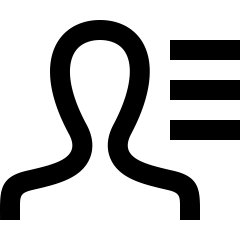
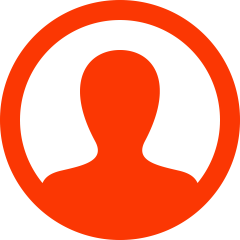
select cv

diff --git a/assets/js/selectCv.js b/assets/js/selectCv.js
@@ -1,0 +1,234 @@
+document.addEventListener("DOMContentLoaded", function () {
+
+
+    //CV SELECT
+    const selectCv = document.getElementById("selectCv");
+    const insertCv = document.getElementById("myCv");
+
+    selectCv.addEventListener("change", function () {
+
+        const cv0 = `<h1 class="text-dark text-center"> Choisissez un CV </h1>`
+
+        //CV 1
+        const cv1 = `<!DOCTYPE html>
+            <html lang="fr">
+            <head>
+                <meta charset="UTF-8">
+                <meta name="viewport" content="width=device-width, initial-scale=1.0">
+                <title>Document</title>
+            </head>
+            <body>
+                
+
+                
+                <div class="h-100 w-100 p-3">
+                
+                    <table width="100%">
+                        <tr>
+                
+                            <!-- ABOUT-->
+                            <td width="65%" valign="top">
+                
+                                <h1 id="cv-name">Nom Prenom</h1>
+                                <p id="cv-about">Lorem ipsum dolor, sit amet consectetur adipisicing elit. Vero sunt quasi non, sint, dolores nobis eveniet laboriosam temporibus aperiam aut reiciendis tempora culpa, distinctio cupiditate. Non, vel. Facilis, consequatur corrupti.</p>
+                
+                            </td>
+                
+                            <!-- CONTACT -->
+                            <td width="30%" style="padding-left: 5rem;">
+                
+                                <table width="100%">
+                                    <tr>
+                                        <td>
+                                            <ul style="list-style: none;">
+                                                <img id="avatarCv" style="width: 7rem; height: 7rem; border-radius: 50%;">
+                                                <li style="padding-top: 1rem;" id="cv-email"></li>
+                                                <li style="padding-top: 0.5rem;" id="cv-tel"></li>
+                                                <li style="padding-top: 0.5rem;" id="cv-birth"></li>
+                                                <li style="padding-top: 0.5rem;" id="cv-city"></li>
+                                            </ul>
+                                        </td>
+                                    </tr>
+                
+                                </table>
+                            </td>
+                        </tr>
+                    </table>
+                
+                    <hr>
+                
+                
+                
+                
+                
+                
+                    <table width="75%">
+                        <tr>
+                            <!-- EXP -->
+                            <td valign="top">
+                
+                                <h2>Expériences</h2>
+                                <div id="expCv">
+                
+                                </div>
+                
+                                <hr>
+                
+                                <!-- SCHOOL -->
+                                <h2>Éducation</h2>
+                                <div id="schoolCv">
+                
+                                </div>
+                
+                            </td>
+                        </tr>
+                    </table>
+                
+                
+                
+                    <hr>
+                
+                
+                
+                
+                    <table width="100%">
+                        <tr>
+                
+                            <!-- SKILLS-->
+                            <td width="50%" valign="top">
+                                <table width="100%">
+                                    <tr>
+                                        <td>
+                                            <h4>Competences</h4>
+                                            <div id="skillsCv" style="list-style: none;">
+                
+                                            </div>
+                                        </td>
+                                    </tr>
+                
+                                </table>
+                            </td>
+                
+                            <!-- LNG -->
+                            <td width="50%">
+                
+                                <table width="100%">
+                                    <tr>
+                                        <td>
+                                            <h4>Langues</h4>
+                                            <div id="cv-lng" style="list-style: none;">
+                
+                                            </div>
+                                        </td>
+                                    </tr>
+                
+                                </table>
+                            </td>
+                        </tr>
+                    </table>
+                </div>
+
+
+            </body>
+            </html>`
+
+        //CV 2
+        const cv2 = `<div id="cv" class="p-2 rounded-4 overflow-y-auto h-100">
+    <div class="container text-center">
+
+        <table width="100%" cellspacing="0" cellpadding="0" style="page-break-inside: avoid;">
+            <tr>
+
+                <!-- ABOUT -->
+                <td width="75%" style="text-align: center;">
+                    <div class="">
+                        <img id="cv-avatar" class="" src="/assets/img/avatar.jpg" alt="Profile photo" style="width: 5rem; height: 5rem; border-radius: 50%; object-fit: cover; display: block; margin: 0 auto 0.5rem auto;">
+                        <h1 id="cv-name" style="margin: 0; font-weight: bold;">Prénom&nbsp;Nom</h1>
+                    </div>
+
+                    <p id="cv-about" style="text-align: center; padding: 0 1rem;">
+                        À propos de moi : courte présentation professionnelle mettant en avant le profil,
+                        les compétences principales et les objectifs.
+                    </p>
+                </td>
+
+                <!-- CONTACT -->
+                <td width="25%" valign="" class="mt-5">
+                    <div class="contact-item">
+                        <span id="cv-email">Email</span>
+                    </div>
+
+                    <div class="contact-item">
+                        <span id="cv-tel">Tel</span>
+                    </div>
+
+                    <div class="contact-item">
+                        <span id="cv-birth">Date de naissance</span>
+                    </div>
+
+                    <div class="contact-item">
+                        <span id="cv-city">Adresse</span>
+                    </div>
+                </td>
+
+            </tr>
+        </table>
+
+    </div>
+    <hr>
+
+    <table width="100%" cellspacing="0" cellpadding="0">
+        <tr>
+            <td width="60%" valign="top">
+
+                <!-- EXP -->
+                <div id="expCv" class="mb-5">
+                    <h2 class="pb-1 mt-3">
+                        Expérience professionnelle
+                    </h2>
+                    <hr class="text-primary">
+
+                    <ul id="expCv"></ul>
+                </div>
+                <hr>
+
+                <!-- EDUCATION -->
+                <div>
+                    <h2 class="border-bottom border-primary pb-1 mt-4">Éducation</h2>
+                    <div id="schoolCv" class="mb-3">
+                    </div>
+                </div>
+
+            </td>
+            <td width="30%" valign="top" style="padding-left: 5rem;">
+
+                <!-- SKILLS -->
+                <h5 class="border-bottom border-primary pb-1 mt-4">Compétences</h5>
+                <ul id="skillsCv" class="small ps-3"></ul>
+
+                <!-- LANGUES -->
+                <h5 class="border-bottom border-primary pb-1 mt-4">Langues</h5>
+                <ul id="cv-lng" class="small ps-3">
+
+                </ul>
+
+            </td>
+        </tr>
+    </table>
+
+</div>`
+
+        if (this.value === "0") {
+            insertCv.innerHTML = cv0;
+
+        } else if (this.value === "1") {
+            insertCv.innerHTML = cv1;
+
+        } else if (this.value === "2") {
+            insertCv.innerHTML = cv2;
+        };
+
+    });
+
+
+});

diff --git a/assets/js/export.js b/assets/js/export.js
@@ -2,6 +2,8 @@ document.addEventListener("DOMContentLoaded", function () {
 
     document.getElementById("exportBtn").addEventListener("click", function (e) {
 
+        e.preventDefault();
+
         const formName = document.getElementById("name").value.trim();
         const formEmail = document.getElementById("email").value.trim();
         const formTel = document.getElementById("tel").value.trim();
@@ -14,6 +16,10 @@ document.addEventListener("DOMContentLoaded", function () {
             alert("Veuillez renseigner tous les champs");
             return;
         };
+
+
+        //SAUVEGARDE DE CV
+
 
 
         //EXPORT
@@ -33,11 +39,6 @@ document.addEventListener("DOMContentLoaded", function () {
                 a.click();
             });
 
-
-        e.preventDefault();
-
-
     });
-
-
+    
 });

diff --git a/assets/js/cv.js b/assets/js/cv.js
@@ -35,8 +35,6 @@ document.addEventListener("DOMContentLoaded", function () {
     });
 
 
-
-
     //EXP
     const expForm = document.getElementById("expForm");
     const expCv = document.getElementById("expCv");

diff --git a/assets/js/btn.js b/assets/js/btn.js
@@ -23,5 +23,4 @@ document.addEventListener("DOMContentLoaded", function () {
         window.location.reload();
     });
 
-
 });

diff --git a/includes/form.php b/includes/form.php
@@ -1,13 +1,19 @@
 <form class="row g-3 p-2 rounded-4 overflow-y-auto h-100">
 
     <!-- Info personel -->
+    
     <div class="d-flex gap-3">
         <img src="/assets/img/person.png" alt="icon informations personnels">
         <h3> Informations</h3>
     </div>
-
+    
     <hr>
-
+    
+    <select id="selectCv" class="my-2 bg-dark text-light text-center form-control">
+        <option value="0"> Choisir le cv</option>
+        <option value="1">1</option>
+        <option value="2">2</option>
+    </select>
     <div class="col-md-6">
         <label for="name" class="form-label">Nom et Prénom *</label>
         <input type="text" class="form-control bg-dark text-white" id="name" data-target="#cv-name" required>
@@ -30,12 +36,12 @@
 
     <div class="col-md-12">
         <label for="avatar" class="form-label">Photo</label>
-        <input type="file" class="form-control bg-dark text-white" id="avatar" accept="image/*" data-target="#cv-avatar" >
+        <input type="file" class="form-control bg-dark text-white" id="avatar" accept="image/*" data-target="#cv-avatar">
     </div>
 
     <div class="col-md-12">
         <label for="city" class="form-label">Ville *</label>
-        <input type="text" maxlength="20" class="form-control bg-dark text-white"text-white id="city" data-target="#cv-city" required>
+        <input type="text" maxlength="20" class="form-control bg-dark text-white" text-white id="city" data-target="#cv-city" required>
     </div>
 
     <div class="col-12">
@@ -52,7 +58,7 @@
         </div>
         <hr>
         <div id="expForm" class="row">
-            
+
         </div>
     </div>
     <button type="button" id="expBtn" class="btn btn-primary btn-lg col-6 m-2 mt-3">Ajouter</button>
@@ -99,10 +105,10 @@
     <button type="button" id="lngBtn" class="btn btn-primary btn-lg col-6 m-2 mt-3">Ajouter</button>
 
 
-        
-        <div class="col-12 mt-5">
-            <button id="exportBtn" type="submit" class="btn btn-success col-md-8">Télécahrger PDF</button>
-            <button id="resetBtn" type="submit" class="btn btn-outline-success">Reset</button>
+
+    <div class="col-12 mt-5">
+        <button id="exportBtn" type="submit" class="btn btn-success col-md-8">Télécahrger PDF</button>
+        <button id="resetBtn" type="submit" class="btn btn-outline-success">Reset</button>
     </div>
 
 </form>

diff --git a/includes/profile.php b/includes/profile.php
@@ -17,13 +17,19 @@
 
 
 <body style="background-image: url(/assets/img/bg2.webp); background-repeat:no-repeat; background-size: cover; background-attachment: fixed;">
-    <div class="d-flex justify-content-center align-items-center vh-100">
+    <main class="d-flex justify-content-center align-items-center vh-100">
+        <section  style="width: 70%; height: 70%; background-color:rgba(131, 131, 131, 0.8);" class="rounded-4">
 
-        <div style="width: 70%; height: 70%; background-color:rgba(131, 131, 131, 0.8);" class="rounded-4">
-            <h1 class="text-black text-center m-5">Vous n'avez pas encore de CV enregistré</h1>
-        </div>
+            <!--  <h1 class="text-black text-center m-5">Vous n'avez pas encore de CV enregistré</h1> -->
+            <div id="myCv" class="row h-100 d-flex justify-content-center gap-5 p-5 m-auto">
 
-    </div>
+                <div  class="col-12 col-lg-5 col-xl-3 order-1 bg-dark text-white rounded-5 p-5 h-100 overflow-y-auto">
+                </div>
+
+            </div>
+
+        </section>
+    </main>
 </body>
 
 

diff --git a/index.php b/index.php
@@ -25,8 +25,6 @@
         </div>
     </section>
 
-
-
     <!-- CV SECTION -->
     <section id="cvSection" class="vh-100 p-4">
         <main class="row h-100 d-flex justify-content-center gap-5 p-5 m-auto">
@@ -35,14 +33,15 @@
                 <?php include "includes/form.php" ?>
             </div>
 
-            <div id="cv" class="col-12 col-lg-6 col-xl-5 order-2 bg-light rounded-5 overflow-y-auto h-100 p-2">
-                <?php include "includes/cv2.php" ?>
+            <div id="myCv" class="col-12 col-lg-6 col-xl-5 order-2 bg-light rounded-5 overflow-y-auto h-100 p-2">
+                <h1 class="text-dark text-center m-5 border-bottom border-3 border-danger"> Choisissez votre CV </h1>
             </div>
 
         </main>
     </section>
 
     <script src="/assets/js/cv.js"></script>
+    <script src="/assets/js/selectCv.js"></script>
     <script src="/assets/js/btn.js"></script>
     <script src="/assets/js/export.js"></script>
 
